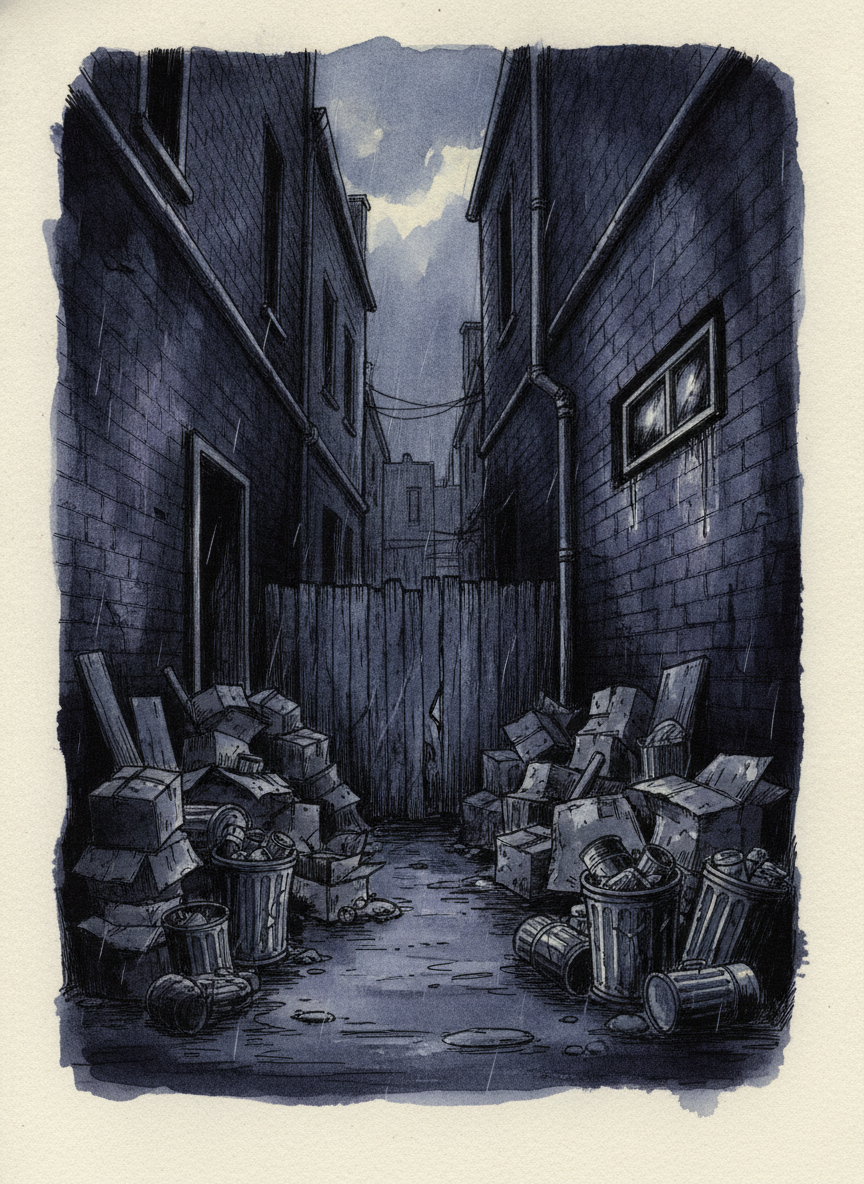
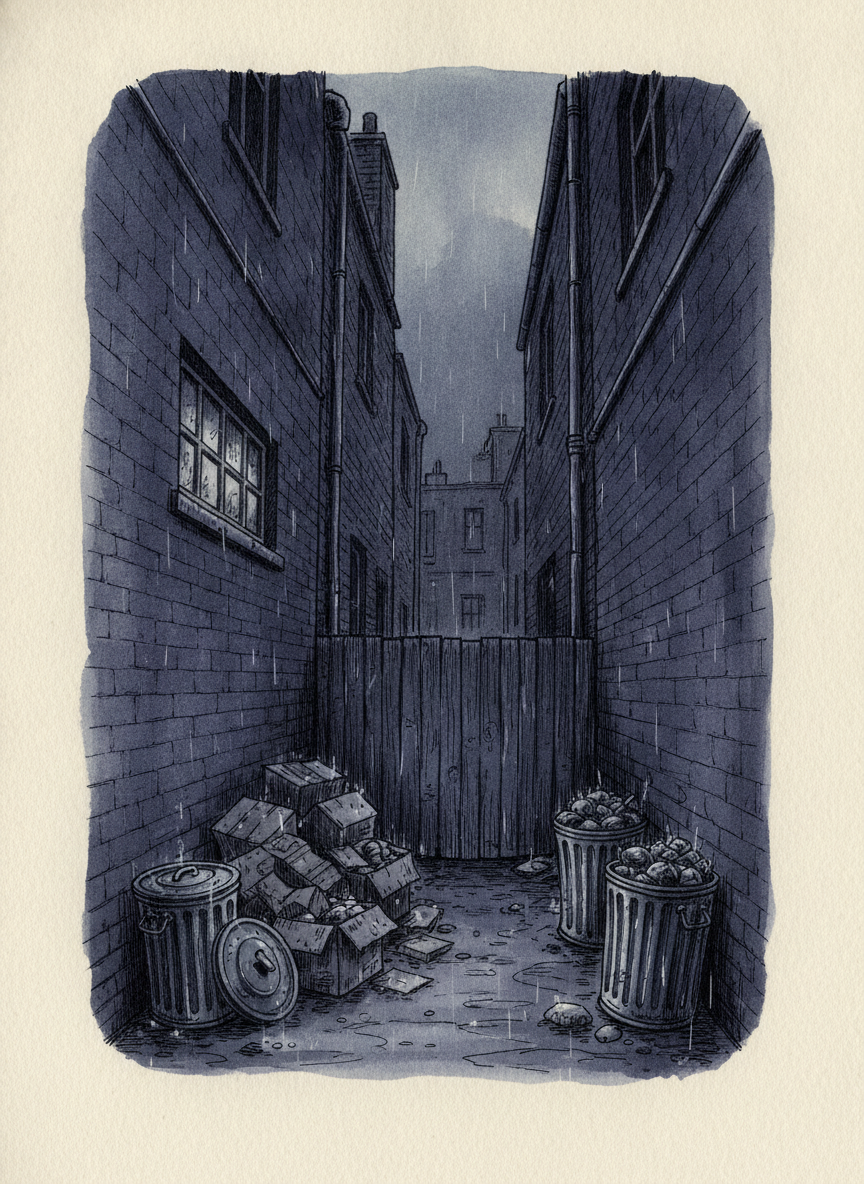
art: anchorhead audition + image/style updates, artist roster, portfolio
- Artist roster (_artists/artists.json) and review notes (_review-notes.json).
- Anchorhead: audition renders, audition.json, scenes.md, style.json, and
  refreshed alley/file-room/office images.
- art-portfolio/ reference renders.

diff --git a/docs/games/images/anchorhead/scenes.md b/docs/games/images/anchorhead/scenes.md
@@ -1,0 +1,65 @@
+# Anchorhead — Scene prompts (worksheet)
+
+A file of per-room **Scene** prompts to feed the generator. Only the `SCENE:` line of
+each block is authoritative — `EXITS:`/`PROSE:` are reference, ignored by the importer.
+
+Rules followed (see `.tome/art-direction-model.md`): literal contents only; geometry stated
+explicitly; interior/exterior tagged (the Aesthetic applies rain to exteriors, dimness to
+interiors); transient/randomized flavor and people stripped (no-people unless the scene
+pivots on them); positive phrasing for guardrails (describe what IS there, don't name the
+forbidden object). Palette/mood = Aesthetic layer; medium = Artist layer — kept OUT here.
+
+Import finished scenes into `style.json` → `scenes[]`:
+`node tools/scenes-import.cjs anchorhead`
+
+---
+
+## outside-the-real-estate-office — Outside the Real Estate Office
+EXITS: west → Narrow Street; southeast → Alley; east → Office (prose; auto-mapper says NW)
+PROSE: A grim little dead-end cul-de-sac in the old quarter; ancient, shadowy, leaning buildings; the real estate office closes the east end; the lane winds back west toward town center; a narrow, garbage-choked alley opens to the southeast.
+SCENE: An exterior dead-end cul-de-sac in the old quarter of a cramped seaside town, damp cobblestones underfoot, ancient shadowy leaning buildings crowding in on all sides. At the east end of the lane stands a small real-estate agent's office, a modest storefront with a door and a window closing off that end. The cobbled lane curves away to the west back toward the town center. At the southeast corner a narrow, garbage-choked alley mouth opens between two buildings. The only ways out are that alley mouth and the lane curving west.
+
+## alley — Alley
+EXITS: west → Outside the Real Estate Office
+PROSE: Narrow gap between two crumbling brick buildings; half-blocked with rotting boxes and overstuffed garbage cans; dead-ends at a tall wooden fence; a narrow transom window high on the NORTH wall (climb the cans to reach the file-room window).
+SCENE: A narrow alley between two tall, crumbling brick buildings that lean oppressively close together overhead, almost shutting out the sky. The passage is half-blocked with rotting cardboard boxes and a couple of overstuffed metal garbage cans, and dead-ends at a tall barrier of weathered vertical wooden planks — a continuous, flat, featureless wall of close-set boards spanning the full width of the alley. The brick side walls are solid and unbroken. At least one of the garbage cans has its top on. Garbage cans are all on the right side of the alley, but the boxes are all over on both sides. On the NORTH (left) wall, a single narrow horizontal transom-style window set roughly one storey up — above head height but low enough to reach by climbing the garbage cans, NOT at the very top of the brickwork. The only opening anywhere in the scene is that single high transom window on the north wall.
+
+## file-room — File Room
+EXITS: up → Office (prose: doorway west; window high on SOUTH wall = alley's north window)
+PROSE: Dim, murky records room; filing cabinets line the walls; a doorway to the west; a window high on the south wall lets in faint light. Same window the alley climb reaches.
+SCENE: A dim, murky interior records room. Tall metal filing cabinets line the walls. A single plain doorway leads out of the west wall. High up on the south wall, a narrow horizontal transom-style window set roughly one storey up lets in a faint, weak light; it is the room's only window. Bare wooden floor, the remaining walls solid and unbroken.
+
+## office — Office
+EXITS: (prose: front door west, file room east)
+PROSE: Deserted office; pallid gray light through drawn blinds; papers scattered on a desk; telephone and answering machine on a desk corner; a half-finished cold cup of coffee; front door west, file room east.
+SCENE: A small, deserted interior office. Pallid gray daylight trickles in through the drawn slat blinds of a window. A wooden desk dominates the room, its top strewn with scattered papers; on one corner sit a telephone and an answering machine, and a half-finished cup of coffee gone cold. A plain door leads out of the west wall and a doorway opens in the east wall. Quiet and empty.
+
+## narrow-street — Narrow Street
+EXITS: west/north → Junction; east/southwest → Whateley Bridge; south → Twisting Lane
+PROSE: Curving cobblestone lane so narrow the rooftops nearly touch overhead; a short flight of steps north leads down to a basement pub; (sheet-lightning line is randomized flavor — stripped).
+SCENE: A cramped, gently curving cobblestone street in an old seaside town, so narrow the steep jagged rooftops on either side nearly meet overhead. Damp cobblestones underfoot — NOT a dirt road. A short, low flight of stone steps off to one side descends to a basement pub doorway. Overcast and rainy. No archway, no grand staircase, no dramatic lightning — just a tight, wet, gloomy lane between leaning buildings.
+
+## junction — Junction
+EXITS: west → University Court; south/southeast → Narrow Street
+PROSE: A street junction hemmed by gloomy buildings; a gap north opens onto a country lane over a grassy heath; the main street continues east; the university's rooftops are visible NW beyond a steep rise.
+SCENE: An exterior street junction in the old town, hemmed by a crowded press of gloomy, leaning buildings, damp cobblestones underfoot. To the north a gap between the buildings opens onto a country lane running out across an open grassy heath. The main cobbled street continues east. To the northwest, beyond a steep rise, the vaulted rooftops and spires of a university are just visible over the buildings.
+
+## university-court — University Court
+EXITS: northwest → Library; east → Junction (prose: library lies west)
+PROSE: A cobbled university courtyard enclosed by high, ivy-covered walls; several old collegiate buildings surround it; the library entrance lies to the west. (History paragraph + Michael stripped.)
+SCENE: An exterior cobbled university courtyard enclosed by high, ivy-covered stone walls. Several old collegiate stone buildings with tall windows surround the court. On the west side stands the entrance to the library, a doored stone façade. Worn paving stones underfoot, quiet and isolated.
+
+## library — Library
+EXITS: west → Circulation Desk; south → University Court; north → Study
+PROSE: A dim library with a high vaulted ceiling lost in shadow; small green-shaded desk lamps cast warm pools of light; reading desks; a small alcove to the north houses the circulation counter; exit east. (Husband at desk stripped.)
+SCENE: A dim interior library with a high vaulted ceiling lost in shadow. Rows of wooden reading desks, each with a small green-shaded brass desk lamp casting a warm pool of light across the dark room. Tall bookshelves recede into gloom. A doorway exits to the east, and a small alcove to the north houses a wooden circulation counter.
+
+## whateley-bridge — Whateley Bridge
+EXITS: south → Town Square; north → Narrow Street
+PROSE: An ancient stone bridge of crumbling, moss-eaten flagstones spanning the dark, torpid Miskaton River; low stone parapets flank both sides; wide enough for two cars. (Michael stripped.)
+SCENE: An exterior view of an ancient, crumbling stone bridge of moss-eaten flagstones spanning a dark, sluggish, torpid river. Low stone parapets flank both sides of the roadway, which is about wide enough for two cars to pass. Bits of gravel and mortar crumble from its edges. The leaning rooftops of the town rise on the far bank.
+
+## town-square — Town Square
+EXITS: south → Riverwalk; north → Whateley Bridge (prose: courthouse south, alley SW, avenues E/W)
+PROSE: A wide open square of uneven pavestones, bordered by leaning steep-roofed buildings; a municipal courthouse at the south end; a dark narrow alley mouth to the SW; avenues west and east; the bridge north; in the CENTER a strange featureless stone obelisk rising from a circular bed of unhealthy weed-choked grass, no plaque. (Michael stripped.)
+SCENE: An exterior open town square of wide, uneven pavestones beneath the open sky, bordered on all sides by leaning, steep-roofed buildings. At the south end stands a municipal courthouse; immediately southwest of it the dark, narrow mouth of an alley opens between buildings. Cobbled avenues lead out to the west and east, and to the north the roadway runs onto an old stone bridge. In the center of the square, rising from a circular bed of unhealthy, weed-choked grass, stands a strange, plain stone obelisk — a featureless monument with no plaque or marker.